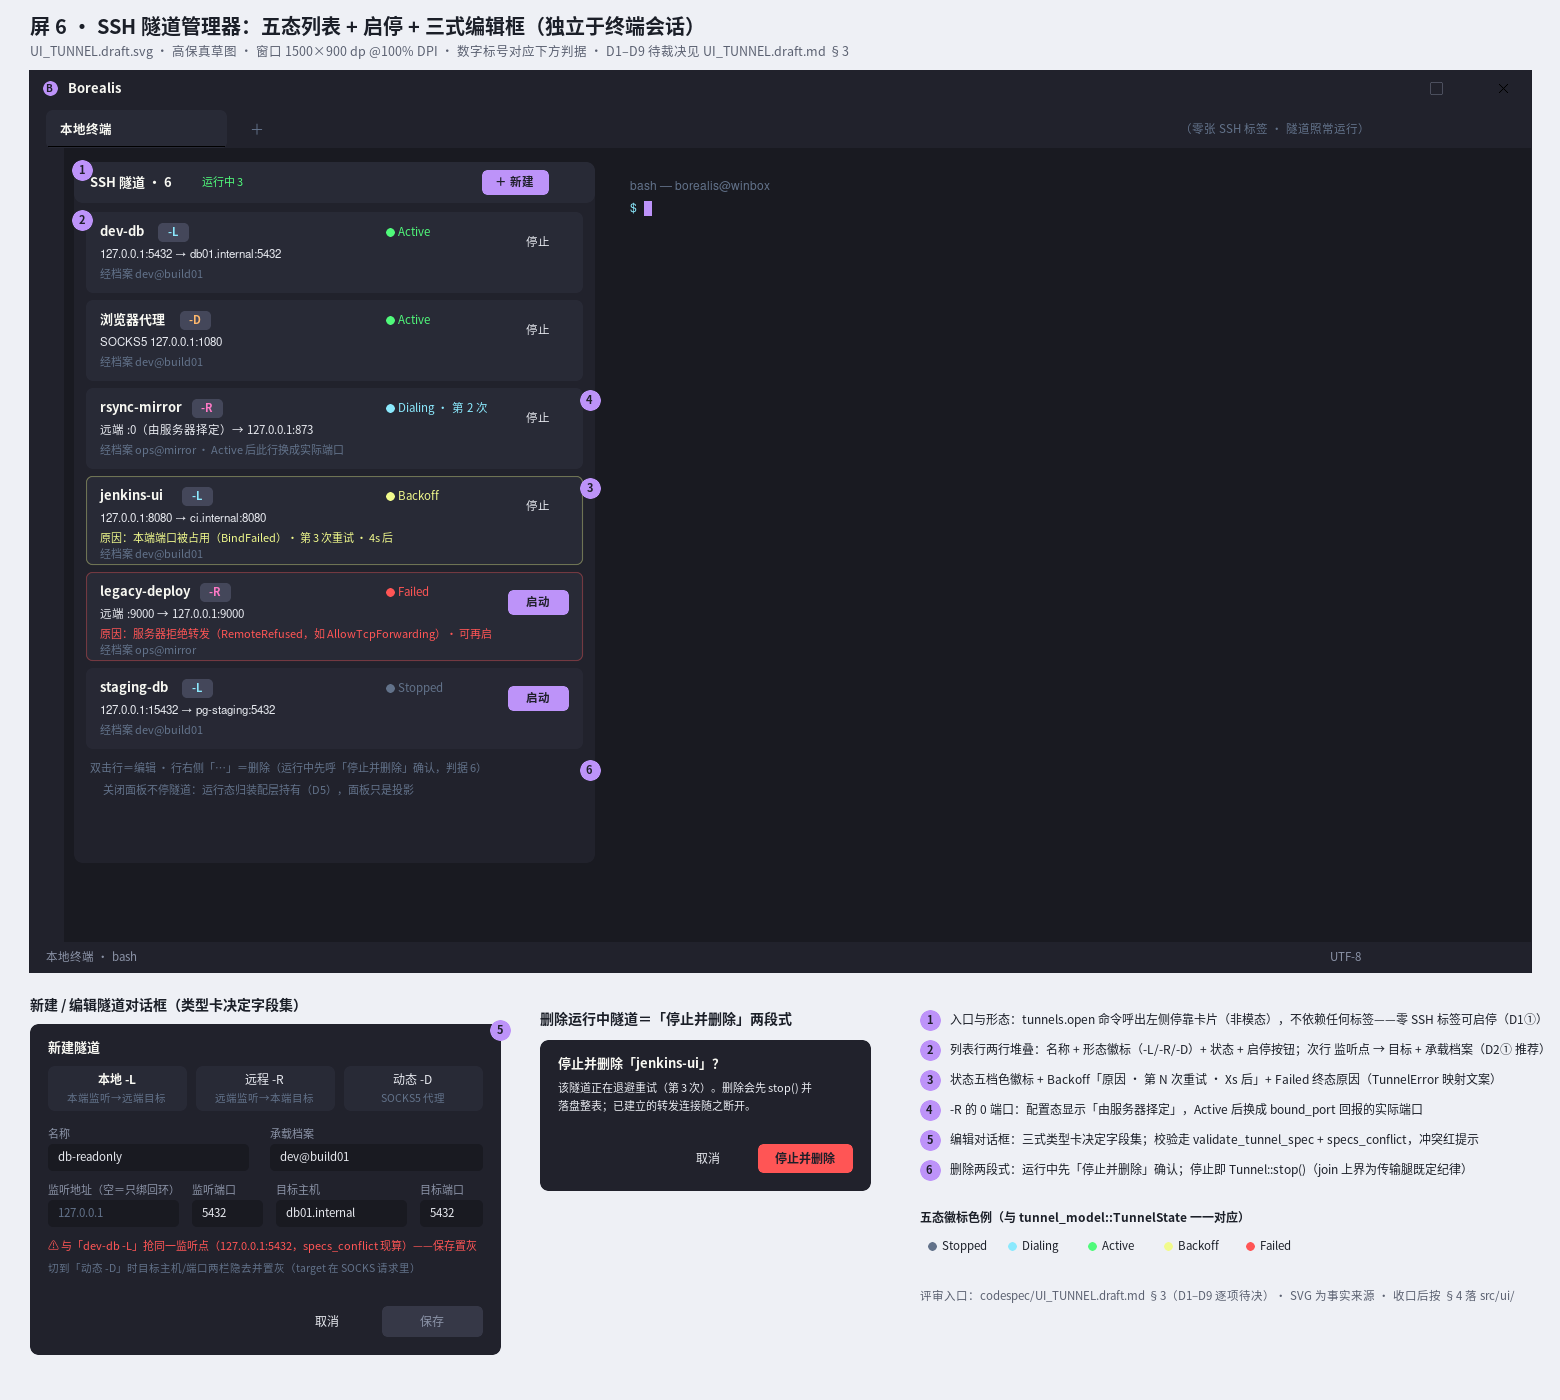
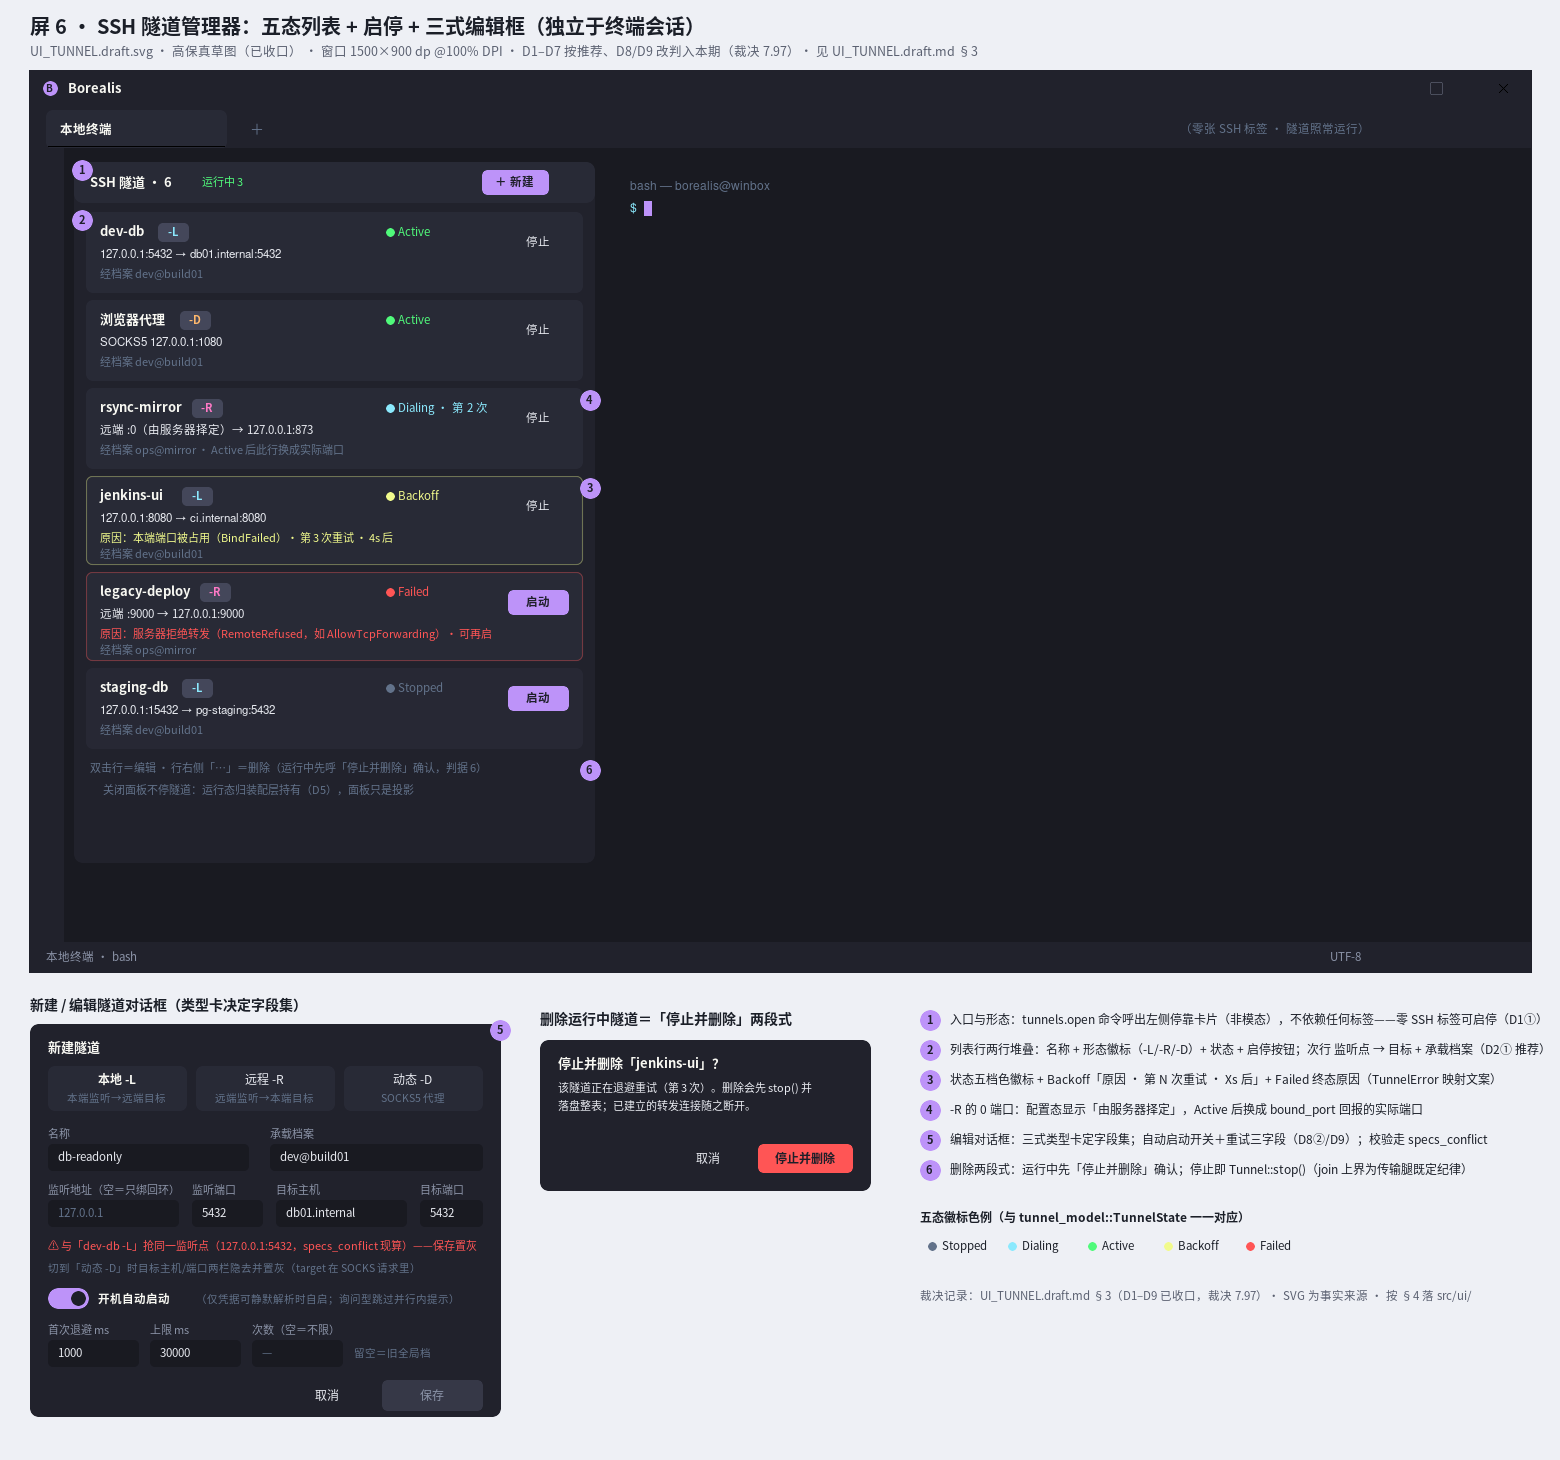
docs: UI_TUNNEL 设计稿收口（D8/D9 改判入本期）
人逐条裁决 D1–D9：D1–D7 按推荐，D8 改判「本期做 autostart」（细则＝
仅凭据可静默解析才自启，启动序零模态框），D9 改判「逐条可配」（对话框
暴露首次退避/上限/次数三字段，TunnelSpec 增 retry 成员、缺省即旧全局档）。
本提交把 §1/§2/§3/§4/§5/§6/§7 改为收口形态，SVG 对话框补自动启动开关
与重试三字段并重出 PNG（画布 1400→1460）。裁决号 7.97 随下一提交并入
SPECIFICATIONS/CHANGELOG/PLAN。

diff --git a/codespec/UI_TUNNEL.draft.md b/codespec/UI_TUNNEL.draft.md
@@ -1,15 +1,15 @@
-# SSH 隧道管理 UI 设计稿（`SPEC.FEAT.CONN.08`）— 评审稿
+# SSH 隧道管理 UI 设计稿（`SPEC.FEAT.CONN.08`）
 
-> **状态**：评审稿（2026-10-09）——§3 的 D1–D9 逐条给推荐裁决，**待评审收口后转实现**（AGENTS.md 第 22 条 UI 件节奏：先出设计图评审，稿入 `codespec/`）。
+> **状态**：评审已收口（2026-10-09）——§3 的 D1–D9 经人逐条裁决：**D1–D7 按推荐，D8 改判「本期做 autostart」（细则＝静默可解才自启），D9 改判「逐条可配」**。并入 `codespec/SPECIFICATIONS.md` §7 裁决 **7.97**，据此转实现（§4 布局落 `src/ui/`）。
 > **配套高保真草图**：`codespec/UI_TUNNEL.draft.svg`（本稿 §2 的 1–6 标号判据对应其底部标注；SVG 为事实来源，后续改图直接改 SVG）。
 > **已落地的前置**：纯逻辑 `src/conn/tunnel_model.{h,cpp}`（定义校验/同侧冲突/五态状态机/指数退避，`utest_tunnel_model` 6 例）、SOCKS5 纯解析 `src/conn/tunnel_socks.{h,cpp}`（5 例）、传输腿 `src/conn/tunnel_client.{h,cpp}`（每隧道自开会话 + 工作线程串行受理 + 退避重连，`itest_tunnel_failure` 2 例）、平台 TCP 腿 `src/platform/tcp.h` 双实现（`utest_tcp_loopback` 4 例）。裁决 7.96 在册。
-> **本稿不碰代码**：评审通过后才落 `src/ui/`。
+> **本稿不碰代码**：收口后才落 `src/ui/`。
 
 ## 1 范围与边界
 
-**本期交付**：隧道管理界面——隧道列表（定义行 + 状态提示）、逐条启动/停止、新建/编辑对话框（三式表单 + 校验与冲突提示）、删除（运行中先停）、`-R` 择定端口回报显示、失败退避的过程可见（原因 + 第几次重试）。隧道定义的持久化随本稿裁决（D3）。
+**本期交付**：隧道管理界面——隧道列表（定义行 + 状态提示）、逐条启动/停止、新建/编辑对话框（三式表单 + 校验与冲突提示 + **开机自动启动开关（D8②）** + **逐条重试策略三字段（D9②）**）、删除（运行中先停）、`-R` 择定端口回报显示、失败退避的过程可见（原因 + 第几次重试）。隧道定义的持久化随本稿裁决（D3）。
 
-**不本期交付**（§7）：开机自动启动、逐条重试策略编辑、隧道流量统计、并发多连接受理（裁决 7.96② 延后子项）、真转发成功腿 etest（待 sshd 环境，裁决 7.96 代价① 在册）。
+**不本期交付**（§7）：隧道流量统计、并发多连接受理（裁决 7.96② 延后子项）、真转发成功腿 etest（待 sshd 环境，裁决 7.96 代价① 在册）。
 
 **关键前提（需求原文）**：「隧道独立于终端会话管理（可开隧道不开终端）」——面板**不挂在任何 SSH 标签上**，与 SFTP 面板（随标签生灭，裁决 7.95 D8）是相反的生命周期形态；每隧道自开独立会话（裁决 7.96①），列表启停不要求任何标签存在。
 
@@ -23,10 +23,10 @@
 | 2 | 列表行两行堆叠：首行 名称 + 形态徽标（`-L`/`-R`/`-D`）+ 状态徽标 + 启停按钮；次行 监听点 → 目标 + 承载档案 | `CONN.08`（D2 拍形态） |
 | 3 | 状态提示五态色：Stopped 灰 / Dialing 蓝 / Active 绿 / Backoff 琥珀 / Failed 红；Backoff 行内显示原因与「第 N 次重试 · Xs 后」，Failed 显示终态原因（`TunnelError` 映射文案） | `CONN.08`「失败自动重试与状态提示」 |
 | 4 | `-R` 的 0 端口：配置显示「由服务器择定」，Active 后行内换成回报的实际端口（`TunnelEvents::bound_port`） | `CONN.08` |
-| 5 | 新建/编辑对话框：三式类型卡决定字段集（Dynamic 隐去 target 两栏并置灰）；校验走 `validate_tunnel_spec` + `specs_conflict`，冲突行内红提示 | `CONN.08`（D5 拍归属） |
+| 5 | 新建/编辑对话框：三式类型卡决定字段集（Dynamic 隐去 target 两栏并置灰）；**自动启动开关 + 重试三字段（首次退避/上限/次数，空次数＝不限）**；校验走 `validate_tunnel_spec` + `specs_conflict`，冲突行内红提示 | `CONN.08`（D5 拍归属，D8②/D9② 扩字段） |
 | 6 | 删除与停止：运行中隧道删除前先呼「停止并删除」确认；停止即 `stop()`（join 上界一个轮询拍 + 一次建连超时，传输腿既定纪律） | `CONN.08`「列表启停」 |
 
-## 3 裁决（D1–D9，均给推荐，待评审收口）
+## 3 裁决（D1–D9，2026-10-09 收口：D1–D7 按推荐，D8/D9 改判）
 
 | # | 待决 | 选项 | 结论（推荐） | 理由 |
 |---|---|---|---|---|
@@ -37,21 +37,25 @@
 | **D5** | 启停归属 | ① 装配层持有 `map<id, unique_ptr<conn::Tunnel>>` + 事件 sink，面板只经 Hooks（start/stop/load/persist）进出；② 面板自持隧道对象 | **①** | 面板不触达 libssh/socket（口径同 SFTP 面板「本件不认识 libssh」，D1① 私有头先例的接缝纪律）；隧道要活过面板开关（关面板不停隧道），对象所有权必须在装配层 |
 | **D6** | 状态泵 | ① `TunnelEvents` sink 写每隧道的原子快照（state/error/bound_port/attempt），面板在既有 `on_frame` 里逐行读快照合成行表（只留最新值）；② 有界消息队列逐事件投递 | **①** | 状态是**可覆盖的量**（最新值即全部事实），队列形态反而要处理积压合并；AGENTS §4.5 第 25 条「交换合成后的最终值」在原子快照下天然成立，`Tunnel::state()` 本就是原子读、`bound_listen_port()` 同。`attempt`（第几次重试）由 sink 在 Backoff 事件上自增 |
 | **D7** | 凭据链 | 启动时按 `spec.profile_id` 从档案表解析 `SecretHandle`：OS 句柄/内存态直接取值；`ask_every_time` 弹 `credential_prompt`（先例已落）。明文只进 `conn::Tunnel` 的内存副本、随 stop 清空 | **如述** | 裁决 7.96⑥ 已定驻留口径（自动重试需重复拨号的必然代价），本条只是把它接到 UI；不落盘不进日志（CONN.09） |
-| **D8** | 开机自动启动 | ① 本期不做，登记延后；② `TunnelSpec` 加 `autostart` 字段并随启动恢复 | **①** | 需求原文只写「列表启停、失败自动重试与状态提示」，未要求开机恢复；② 涉及启动时序与凭据询问的阻塞面（ask_every_time 档案无法静默重拨），独立立项更干净 |
-| **D9** | 重试策略 | ① 全局缺省 `RetryPolicy{base 1s, cap 30s, 不限次}`（模型现缺省），逐条可配延后；② 对话框暴露三字段 | **①** | 需求只说「失败自动重试」；退避参数是运维调优项，首版给一档缺省即可，Failed 终态仍可由人再启（模型 `max_attempts==0` 恒可重试的既定口径） |
+| **D8** | 开机自动启动 | ① 本期不做，登记延后；② `TunnelSpec` 加 `autostart` 字段并随启动恢复 | **②（人已改判）** | 本期做。细则（人已拍板「静默可解才自启」）：启动时只拉起**凭据可静默解析**（OS 句柄型）的 autostart 隧道；`ask_every_time` 档案的隧道保持 Stopped 并在行内提示，**绝不在启动序弹模态框挡启动**。边界：真实 OS 凭据后端（CONN.09 独立任务）落地前句柄型实为空集，autostart 腿届时才真生效——字段、启动序与 UI 提示本期全落，生效面随该后端到货 |
+| **D9** | 重试策略 | ① 全局缺省 `RetryPolicy{base 1s, cap 30s, 不限次}`（模型现缺省），逐条可配延后；② 对话框暴露三字段 | **②（人已改判）** | 逐条可配。形态：`TunnelSpec` 增 `RetryPolicy retry{}`（模型既有 struct，缺省 `{1000, 30000, 0}` 即原全局档），编辑对话框暴露「首次退避 / 上限 / 次数（空＝不限）」三字段；`max_attempts` 用尽进 Failed 的模型行为不变（`should_retry` 现成裁决），持久化随 D3 第六域整体落盘 |
 
 ## 4 文件布局 / TU 拆分
 
 ```
+src/conn/tunnel_model.{h,cpp}      修改 —— TunnelSpec 增 autostart（bool）与 retry（RetryPolicy）
+                                         两成员（缺省值即旧行为，D8②/D9）；utest_tunnel_model 补
+                                         缺省等价与新旧字段往返例
 src/ui/tunnel_panel.h              新增 —— 私有头（D1① 先例：connection_sidebar 同款）；含 au:: 类型
 src/ui/tunnel_panel.cpp            新增 —— 停靠卡片装配件：列表行/启停/删除确认/编辑对话框呼出
 src/ui/tunnel_format.{h,cpp}       新增 —— 纯函数小头（无 au:: 类型，先例 sftp_format）：
                                          五态→文案档、TunnelError→文案、行模型 tunnel_rows()、
                                          监听点/目标串折叠（-R 0 端口「由服务器择定」形态）
 src/main.cpp                       修改 —— 注册 tunnels.open 命令（同 connections.toggle 族）、持有
-                                         map<id, Tunnel> + 原子快照 sink（D5/D6）、D7 凭据链接线
+                                         map<id, Tunnel> + 原子快照 sink（D5/D6）、D7 凭据链接线、
+                                         启动序拉起 autostart∧静默可解隧道（D8 细则）
 include/borealis/config/settings.h 修改 —— Settings 第六域 tunnels（D3）
-src/config/store.cpp               修改 —— tunnels 域读写与往返
+src/config/store.cpp               修改 —— tunnels 域读写与往返（含 autostart/retry 键）
 src/CMakeLists.txt                 修改 —— 上述 .cpp 编入 borealis_core
 tests/unit/utest_tunnel_format.cpp 新增 —— 文案映射/行模型/端口折叠无头单测
 tests/integration/itest_tunnel_panel.cpp 新增 —— 无头真派发：行表随快照刷新、启停按钮呼 Hooks、
@@ -81,21 +85,22 @@ TunnelPanel（UI 线程：on_frame 读快照 → tunnel_rows() 合成 → 行区
 ```
 
 - 面板关闭 ≠ 隧道停止：Sink 与 Tunnel 对象都在装配层，面板只是投影（D5 的根据）。
+- **启动序（D8 细则）**：配置装载完成即扫 autostart 名单，只拉起「凭据可静默解析」的隧道；询问型跳过并在行内提示「自动启动已跳过：需先存凭据」——启动路径零模态框、零阻塞 IO。
 - UI 线程零阻塞 IO（AGENTS §25）：启停动作里 `stop()` 的 join 上界（200 ms 轮询拍 + 一次建连超时）在**装配层工作侧**消化——首版取舍：`stop()` 直接在 UI 线程调用（与 `SftpPanel` 析构断连同档，秒级最坏情形罕见且已有注释在册），若走查不可接受再改投递。
 - 冲突校验在**提交时**做（`has_conflict` 整表闸），列表刷新不重复算。
 
 ## 6 验收判据映射
 
 - **列表启停**：每行一枚启停按钮，状态徽标随快照刷新（D6）；停止即 `Tunnel::stop()`。
-- **失败自动重试与状态提示**：Backoff 行内「原因 + 第 N 次重试 · Xs 后」（`retry_delay_ms` 现算），Failed 显示终态原因；重试穷尽缺省不存在（D9① 不限次）。
+- **失败自动重试与状态提示**：Backoff 行内「原因 + 第 N 次重试 · Xs 后」（`retry_delay_ms` 现算），Failed 显示终态原因；重试策略**逐条可配**（D9②）——对话框三字段缺省即模型全局档 `{1s, 30s, 不限次}`，`max_attempts` 用尽进 Failed 的模型行为不变（`should_retry` 现成）。
+- **开机自动启动（D8②）**：启动序只拉起「autostart ∧ 凭据可静默解析」的隧道；询问型跳过且行内提示，启动路径零模态框；`utest`/`itest` 覆盖「句柄可解→自动 Dialing、询问型→Stopped+提示」两分支（真实 OS 后端到货前以后端注入口验证）。
 - **可开隧道不开终端**：面板不持任何标签引用；草图主屏即「零 SSH 标签」态。
 - **三式覆盖**：`-L`/`-D` 本端监听、`-R` 远端监听（0 端口择定回报，判据 4）；编辑对话框三卡形态决定字段集（判据 5）。
-- **持久化**：`utest_config` 第六域往返 + `settings_catalog` 白名单；配置目录明文审计用例（CONN.09）覆盖 tunnels 域（只存 `profile_id` 引用）。
+- **持久化**：`utest_config` 第六域往返（含 `autostart`/`retry` 键，D3/D8/D9）+ `settings_catalog` 白名单；配置目录明文审计用例（CONN.09）覆盖 tunnels 域（只存 `profile_id` 引用）。
 - **测试**：`utest_tunnel_format`（新增）+ `itest_tunnel_panel`（新增）全绿；面板真机走查按 AGENTS 第 33 条在实现后执行（未走查不得称「可用」）。
 
 ## 7 本期不做（延后）
 
-- 开机自动启动（D8①）；逐条重试策略编辑（D9①）
 - 隧道流量统计 / 连接数计数（需求未提）
 - 并发多连接受理（裁决 7.96② 延后子项，随 CONN.02 连接复用一并评估）
 - `-R` 服务器择定端口的主动查询（只在 Active 事件回报值，不二次探测）
